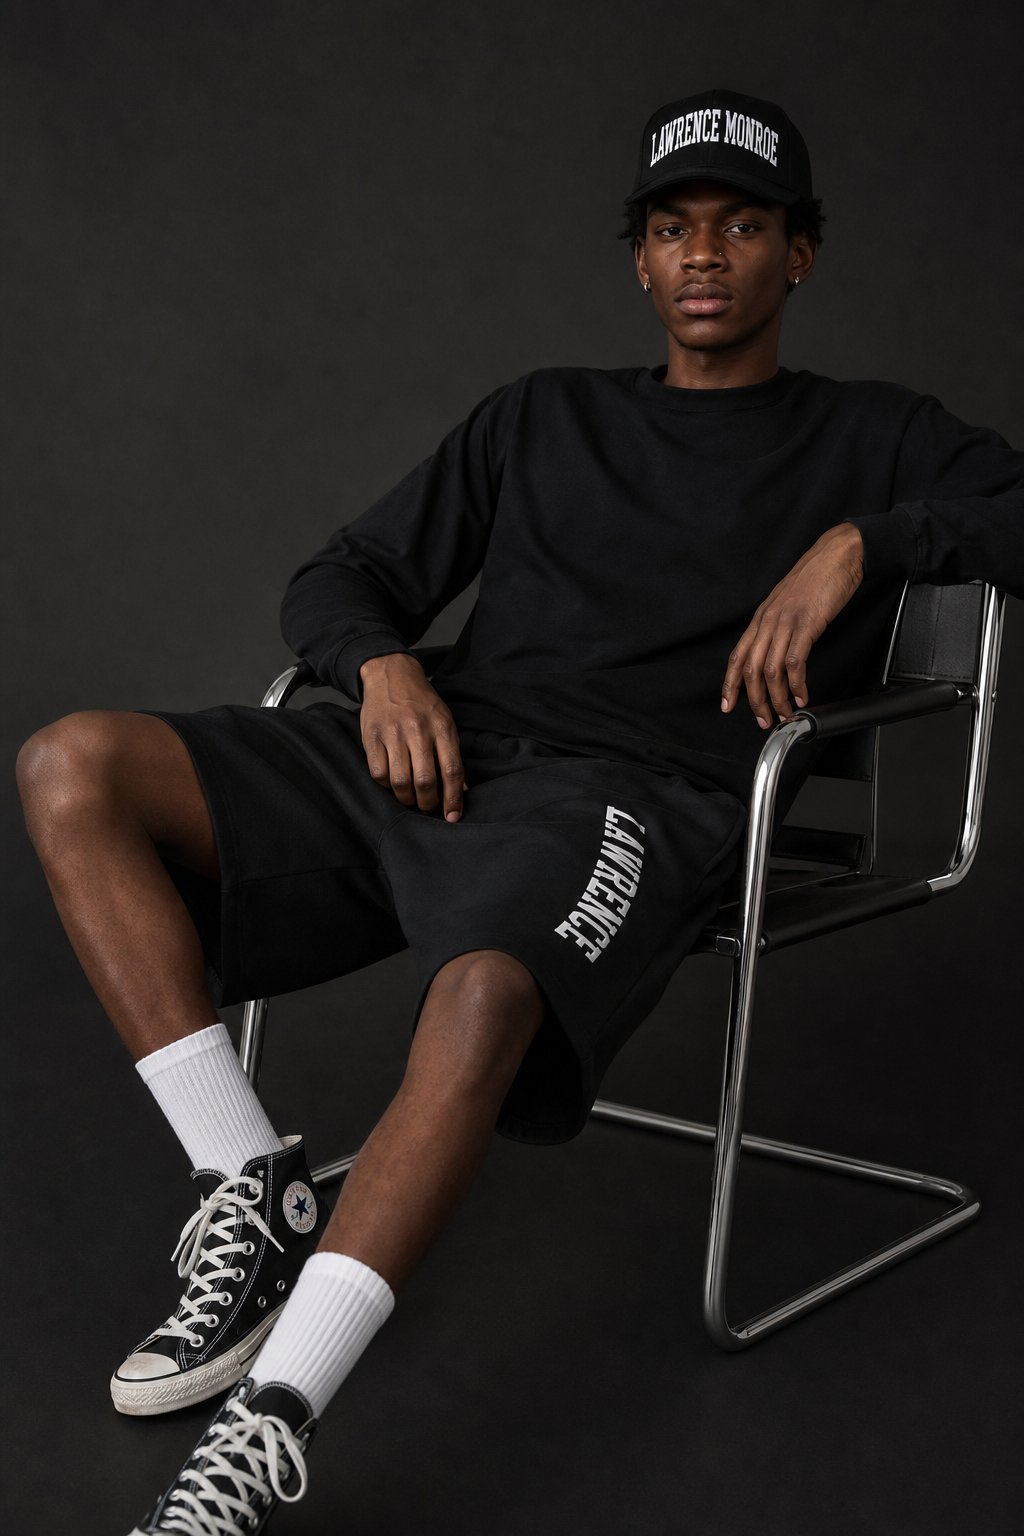
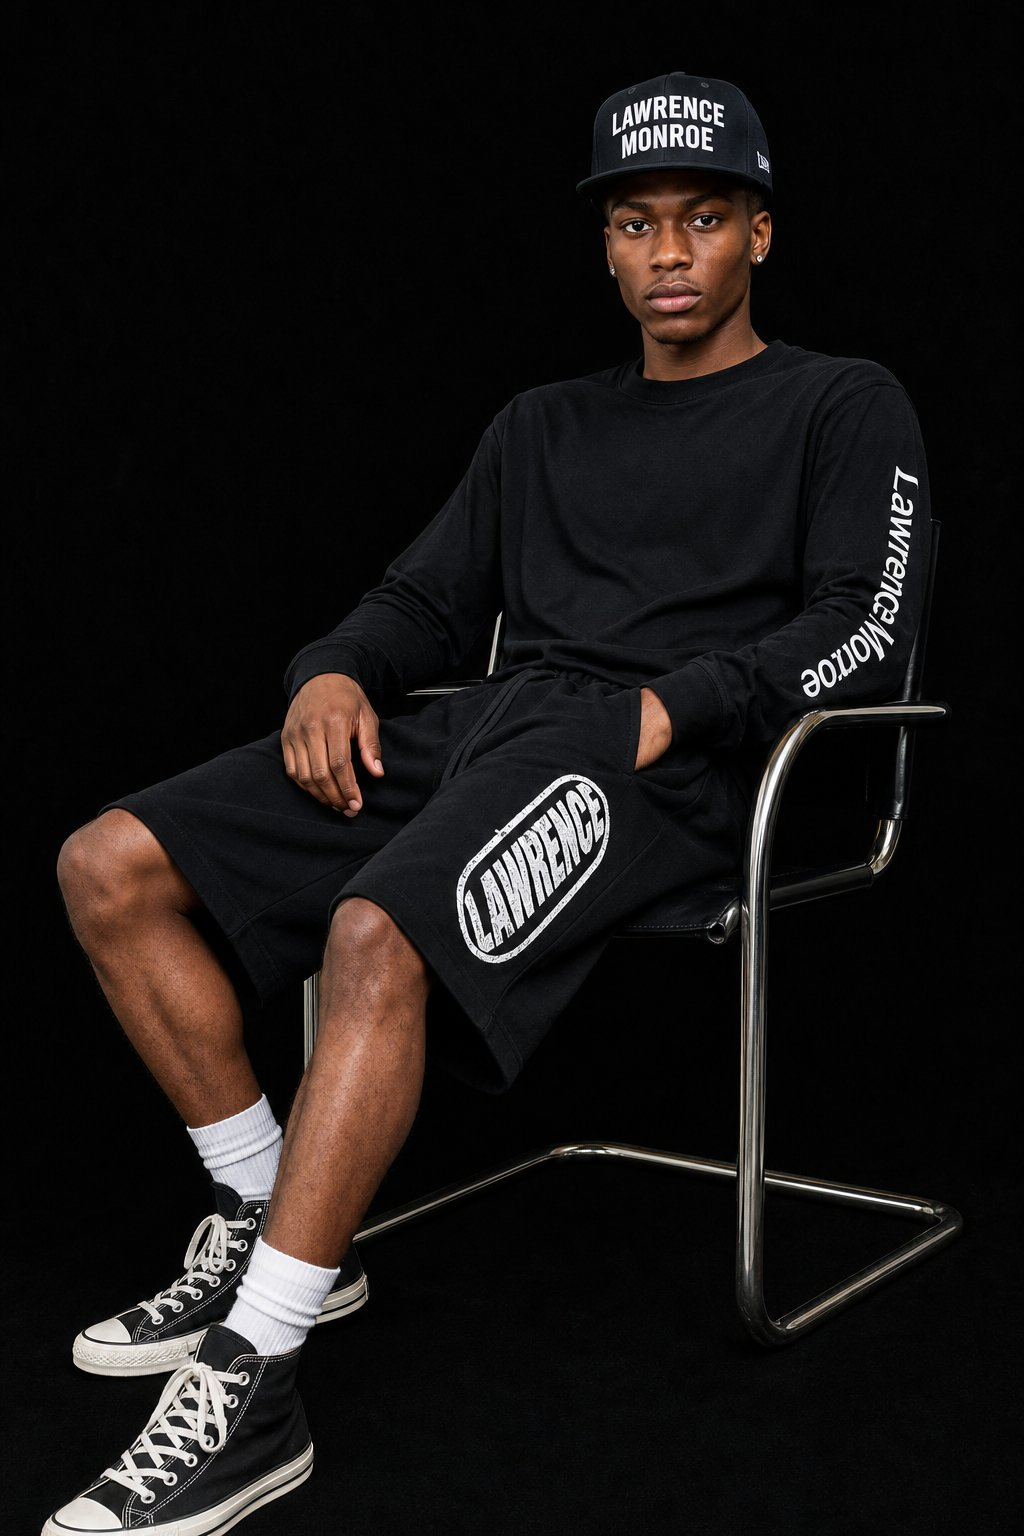
Implement playful high-fashion editorial face blur system across model views

diff --git a/src/components/product/ProductMediaStage.tsx b/src/components/product/ProductMediaStage.tsx
@@ -1,7 +1,8 @@
 import React, { useState } from 'react';
 import { motion, AnimatePresence } from 'framer-motion';
-import { Eye, ZoomIn, Layers, Sparkles } from 'lucide-react';
+import { Eye, ZoomIn, Sparkles, Shield, UserX } from 'lucide-react';
 import { SHORTS_001_VISUALS, SHORTS_002_VISUALS, ProductVisual } from '../../data/assets';
+import { EditorialFaceBlur } from '../common/EditorialFaceBlur';
 
 interface ProductMediaStageProps {
   productId: string;
@@ -15,6 +16,8 @@ export const ProductMediaStage: React.FC<ProductMediaStageProps> = ({ productId,
   const [focusMode, setFocusMode] = useState<'full' | 'shorts'>('full');
   const [showAnnotations, setShowAnnotations] = useState(false);
   const [activeAnnotationId, setActiveAnnotationId] = useState<number | null>(null);
+  const [faceBlurActive, setFaceBlurActive] = useState(true);
+  const [blurStyle, setBlurStyle] = useState<'frosted-glass' | 'pixel-tape' | 'monogram-censor'>('frosted-glass');
   
   // Mouse position for subtle 2px-4px micro-shift
   const [mousePos, setMousePos] = useState({ x: 0, y: 0 });
@@ -30,14 +33,12 @@ export const ProductMediaStage: React.FC<ProductMediaStageProps> = ({ productId,
 
   return (
     <div className="space-y-4">
-      {/* Top Inspection Controls Toolbar */}
-      <div className="flex flex-wrap items-center justify-between gap-3 border border-line bg-black/60 p-2.5 font-mono text-xs">
+      {/* Top Inspection & Focus Controls Toolbar */}
+      <div className="flex flex-wrap items-center justify-between gap-3 border border-line bg-black/70 p-2.5 font-mono text-xs">
         {/* Full Look vs Shorts Focus Mode Toggle */}
         <div className="flex items-center space-x-1 border border-line/60 bg-graphite p-0.5">
           <button
-            onClick={() => {
-              setFocusMode('full');
-            }}
+            onClick={() => setFocusMode('full')}
             className={`px-3 py-1.5 uppercase font-bold text-[11px] transition-colors ${
               focusMode === 'full'
                 ? 'bg-black text-gold border border-gold/60 shadow-sm'
@@ -47,9 +48,7 @@ export const ProductMediaStage: React.FC<ProductMediaStageProps> = ({ productId,
             FULL LOOK
           </button>
           <button
-            onClick={() => {
-              setFocusMode('shorts');
-            }}
+            onClick={() => setFocusMode('shorts')}
             className={`px-3 py-1.5 uppercase font-bold text-[11px] transition-colors flex items-center space-x-1.5 ${
               focusMode === 'shorts'
                 ? 'bg-black text-gold border border-gold/60 shadow-sm'
@@ -61,20 +60,53 @@ export const ProductMediaStage: React.FC<ProductMediaStageProps> = ({ productId,
           </button>
         </div>
 
-        {/* Inspection Annotations Toggle */}
-        {activeVisual.annotations && activeVisual.annotations.length > 0 && (
-          <button
-            onClick={() => setShowAnnotations(!showAnnotations)}
-            className={`px-3 py-1.5 uppercase font-mono text-[11px] tracking-wider transition-colors border flex items-center space-x-1.5 ${
-              showAnnotations
-                ? 'border-gold bg-gold/10 text-gold font-bold'
-                : 'border-line text-smoke hover:text-bone hover:border-smoke'
-            }`}
-          >
-            <Eye size={13} />
-            <span>{showAnnotations ? 'HIDE ANNOTATIONS' : 'INSPECTION MARKS'}</span>
-          </button>
-        )}
+        {/* Action Controls: Fun Face Blur Toggle & Inspection Annotations */}
+        <div className="flex items-center space-x-2">
+          {/* Face Blur Toggle */}
+          {focusMode === 'full' && (
+            <button
+              onClick={() => {
+                if (!faceBlurActive) {
+                  setFaceBlurActive(true);
+                } else {
+                  // Cycle blur style or toggle
+                  if (blurStyle === 'frosted-glass') setBlurStyle('pixel-tape');
+                  else if (blurStyle === 'pixel-tape') setBlurStyle('monogram-censor');
+                  else {
+                    setBlurStyle('frosted-glass');
+                    setFaceBlurActive(false);
+                  }
+                }
+              }}
+              className={`px-2.5 py-1.5 uppercase font-mono text-[10px] tracking-wider transition-colors border flex items-center space-x-1.5 ${
+                faceBlurActive
+                  ? 'border-gold bg-gold/10 text-gold font-bold'
+                  : 'border-line text-smoke hover:text-bone'
+              }`}
+              title="Toggle playful high-fashion editorial face obscurity"
+            >
+              <UserX size={12} />
+              <span>
+                {faceBlurActive ? `BLUR: ${blurStyle === 'frosted-glass' ? 'FROSTED' : blurStyle === 'pixel-tape' ? 'TAPE' : 'MONOGRAM'}` : 'BLUR: OFF'}
+              </span>
+            </button>
+          )}
+
+          {/* Inspection Annotations Toggle */}
+          {activeVisual.annotations && activeVisual.annotations.length > 0 && (
+            <button
+              onClick={() => setShowAnnotations(!showAnnotations)}
+              className={`px-3 py-1.5 uppercase font-mono text-[11px] tracking-wider transition-colors border flex items-center space-x-1.5 ${
+                showAnnotations
+                  ? 'border-gold bg-gold/10 text-gold font-bold'
+                  : 'border-line text-smoke hover:text-bone hover:border-smoke'
+              }`}
+            >
+              <Eye size={13} />
+              <span>{showAnnotations ? 'HIDE MARKS' : 'INSPECTION MARKS'}</span>
+            </button>
+          )}
+        </div>
       </div>
 
       {/* Main Interactive Stage with Print-Frame Border */}
@@ -100,6 +132,18 @@ export const ProductMediaStage: React.FC<ProductMediaStageProps> = ({ productId,
             }}
             className="w-full h-full object-cover filter contrast-105 brightness-95 select-none"
           />
+
+          {/* Fun Editorial Face Blur Overlay (Active in Full Look Mode) */}
+          {faceBlurActive && focusMode === 'full' && (
+            <EditorialFaceBlur
+              variant={blurStyle}
+              top={activeVisual.id.includes('seated') ? '12%' : '8%'}
+              left="50%"
+              width={activeVisual.id.includes('seated') ? '94px' : '82px'}
+              height="46px"
+              label="LM // PRIVATE RELEASE"
+            />
+          )}
 
           {/* Vignette Overlay */}
           <div className="absolute inset-0 bg-gradient-to-t from-black/70 via-transparent to-black/20 pointer-events-none" />

diff --git a/src/components/home/Section1Hero.tsx b/src/components/home/Section1Hero.tsx
@@ -3,6 +3,7 @@ import { motion, useMotionValue, useSpring, useTransform } from 'framer-motion';
 import { ArrowDown, ArrowUpRight } from 'lucide-react';
 import { Link } from 'react-router-dom';
 import { brandAssets } from '../../data/assets';
+import { EditorialFaceBlur } from '../common/EditorialFaceBlur';
 
 export const Section1Hero: React.FC = () => {
   const [isHoveredCTA, setIsHoveredCTA] = useState(false);
@@ -46,16 +47,19 @@ export const Section1Hero: React.FC = () => {
         <img src={brandAssets.monogram} alt="" className="w-full h-auto object-contain" />
       </div>
 
-      {/* Kinetic Layer 1: Real Campaign Silhouette in Studio */}
+      {/* Kinetic Layer 1: Real Campaign Silhouette in Studio with Fun Editorial Face Blur */}
       <motion.div
         style={{ x: bgShiftX }}
         className="absolute right-[-2%] sm:right-[4%] top-[12%] w-[68vw] sm:w-[45vw] md:w-[38vw] max-w-[480px] h-[55vh] max-h-[620px] pointer-events-none z-0 opacity-40 md:opacity-60 overflow-hidden border border-line"
       >
-        <img
-          src="/images/campaign-hero-motion.jpg"
-          alt="Campaign silhouette in motion"
-          className="w-full h-full object-cover grayscale contrast-125 brightness-90 filter"
-        />
+        <div className="relative w-full h-full">
+          <img
+            src="/images/campaign-hero-motion.jpg"
+            alt="Campaign silhouette in motion"
+            className="w-full h-full object-cover grayscale contrast-125 brightness-90 filter"
+          />
+          <EditorialFaceBlur top="16%" left="50%" width="72px" height="38px" label="LM // PRIVATE" />
+        </div>
         <div className="absolute inset-0 bg-gradient-to-t from-black via-black/30 to-transparent" />
         <div className="absolute bottom-3 left-3 font-mono text-[9px] text-smoke/80 tracking-widest uppercase bg-black/60 px-2 py-0.5 border border-line/40">
           STUDIO TELEMETRY / FRAME 01
@@ -67,11 +71,15 @@ export const Section1Hero: React.FC = () => {
         style={{ x: cutoutX, y: cutoutY }}
         className="absolute left-[8%] sm:left-[22%] md:left-[28%] top-[24%] sm:top-[18%] w-[72vw] sm:w-[52vw] md:w-[44vw] max-w-[560px] pointer-events-none z-10 filter drop-shadow-[0_20px_40px_rgba(0,0,0,0.9)]"
       >
-        <img
-          src="/images/shorts-001-cutout.jpg"
-          alt="LM Shorts 001 with signature vertical arch graphic"
-          className="w-full h-auto object-contain"
-        />
+        <div className="relative w-full h-auto">
+          <img
+            src="/images/shorts-001-cutout.jpg"
+            alt="LM Shorts 001 with signature vertical arch graphic"
+            className="w-full h-auto object-contain"
+          />
+          {/* Fun Editorial Face Blur on full look cutout */}
+          <EditorialFaceBlur top="7%" left="50%" width="84px" height="44px" label="LM // 001" />
+        </div>
         {/* Archival Pin Label */}
         <div className="absolute top-[35%] right-[10%] bg-black/80 border border-gold/60 backdrop-blur-sm px-2.5 py-1 flex items-center space-x-1.5 shadow-xl">
           <span className="w-1.5 h-1.5 bg-gold rounded-none" />

diff --git a/src/components/common/EditorialFaceBlur.tsx b/src/components/common/EditorialFaceBlur.tsx
@@ -1,0 +1,76 @@
+import React from 'react';
+import { motion } from 'framer-motion';
+import { brandAssets } from '../../data/assets';
+
+interface EditorialFaceBlurProps {
+  variant?: 'frosted-glass' | 'pixel-tape' | 'monogram-censor' | 'chromatic-blur';
+  className?: string;
+  top?: string;
+  left?: string;
+  width?: string;
+  height?: string;
+  label?: string;
+}
+
+export const EditorialFaceBlur: React.FC<EditorialFaceBlurProps> = ({
+  variant = 'frosted-glass',
+  className = '',
+  top = '7%',
+  left = '50%',
+  width = '88px',
+  height = '48px',
+  label = 'LM // OBSCURED',
+}) => {
+  if (variant === 'pixel-tape') {
+    return (
+      <div
+        style={{ top, left, width, height }}
+        className={`absolute -translate-x-1/2 z-20 pointer-events-none ${className}`}
+      >
+        {/* High-fashion editorial censor tape */}
+        <div className="w-full h-full bg-black/90 border border-gold/60 backdrop-blur-lg flex items-center justify-center rotate-[-2deg] shadow-2xl">
+          <div className="flex items-center space-x-1.5 px-2">
+            <span className="w-1 h-1 bg-gold rounded-full animate-ping" />
+            <span className="font-mono text-[8px] text-gold tracking-widest uppercase font-bold select-none">
+              {label}
+            </span>
+          </div>
+        </div>
+      </div>
+    );
+  }
+
+  if (variant === 'monogram-censor') {
+    return (
+      <div
+        style={{ top, left, width, height }}
+        className={`absolute -translate-x-1/2 z-20 pointer-events-none ${className}`}
+      >
+        <div className="w-full h-full rounded-full bg-black/80 backdrop-blur-md border border-line flex items-center justify-center p-2 shadow-xl">
+          <img src={brandAssets.monogram} alt="" className="w-full h-full object-contain opacity-80" />
+        </div>
+      </div>
+    );
+  }
+
+  // Default: Frosted glass editorial blur with gold hairline
+  return (
+    <motion.div
+      style={{ top, left, width, height }}
+      initial={{ opacity: 0.9 }}
+      whileHover={{ scale: 1.05, opacity: 1 }}
+      className={`absolute -translate-x-1/2 z-20 pointer-events-none rounded-sm overflow-hidden ${className}`}
+    >
+      <div className="w-full h-full backdrop-blur-xl bg-graphite/50 border border-gold/40 flex flex-col items-center justify-between p-1 shadow-2xl">
+        <div className="w-full flex items-center justify-between px-1 font-mono text-[7px] text-gold tracking-widest">
+          <span>[LM]</span>
+          <span className="w-1 h-1 bg-gold rounded-full" />
+        </div>
+        <div className="font-mono text-[8px] font-bold text-bone tracking-widest uppercase text-center select-none">
+          ANONYMOUS
+        </div>
+        <div className="w-full h-[1px] bg-gradient-to-r from-transparent via-gold to-transparent" />
+      </div>
+    </motion.div>
+  );
+};

diff --git a/src/components/home/Section4ReleasedPieces.tsx b/src/components/home/Section4ReleasedPieces.tsx
@@ -6,6 +6,7 @@ import { RELEASED_PRODUCTS } from '../../data/products';
 import { formatCurrency } from '../../utils/format';
 import { useCartStore } from '../../store/cartStore';
 import { brandAssets } from '../../data/assets';
+import { EditorialFaceBlur } from '../common/EditorialFaceBlur';
 
 export const Section4ReleasedPieces: React.FC = () => {
   const [product1Focus, setProduct1Focus] = useState<'full' | 'shorts'>('full');
@@ -91,6 +92,11 @@ export const Section4ReleasedPieces: React.FC = () => {
                 transition={{ duration: 0.45, ease: [0.16, 1, 0.3, 1] }}
                 className="w-full h-full object-cover filter brightness-95 contrast-105"
               />
+
+              {/* Fun Editorial Face Blur on full look view */}
+              {product1Focus === 'full' && (
+                <EditorialFaceBlur top="8%" left="50%" width="84px" height="44px" label="LM // 001" />
+              )}
 
               {/* Official White Pill Badge Stamp */}
               <div className="absolute top-4 left-4 z-20 w-32 sm:w-36">
@@ -277,6 +283,11 @@ export const Section4ReleasedPieces: React.FC = () => {
                 transition={{ duration: 0.45, ease: [0.16, 1, 0.3, 1] }}
                 className="w-full h-full object-cover filter brightness-95 contrast-105"
               />
+
+              {/* Fun Editorial Face Blur on full look view */}
+              {product2Focus === 'full' && (
+                <EditorialFaceBlur top="8%" left="50%" width="84px" height="44px" label="LM // 002" />
+              )}
 
               {/* Official Blue Pill Badge Stamp */}
               <div className="absolute top-4 left-4 z-20 w-32 sm:w-36">
